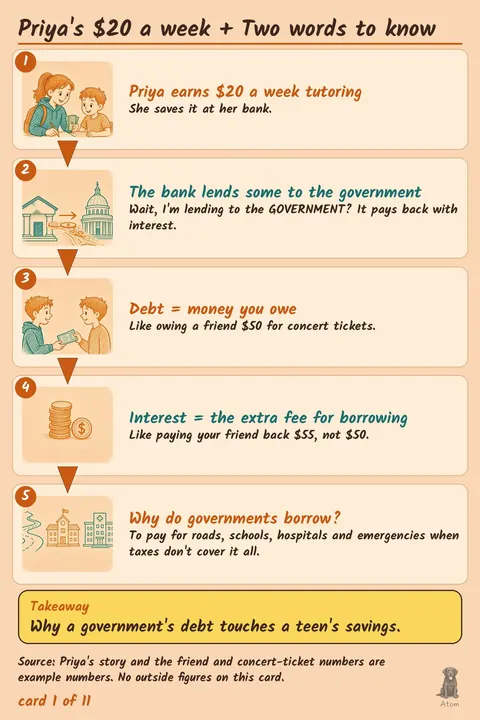
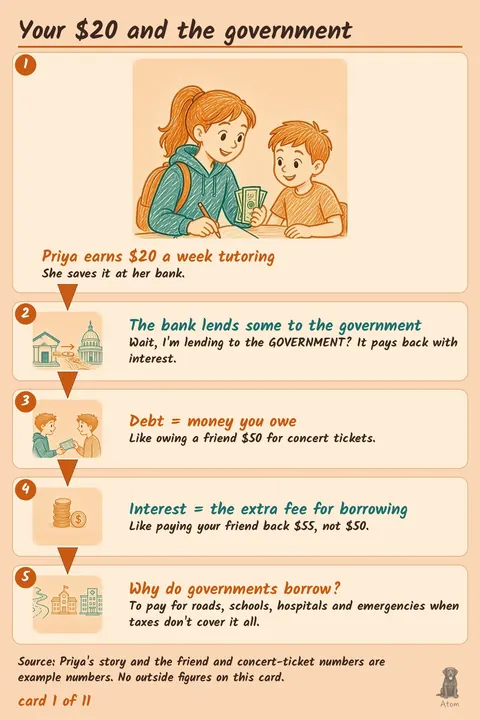
Pulse: Debt Loop v7 (takeaways in caption box), gist leads; counter + Scroll cue moved to footer; shelf progress counts drawn pages; add_book --takeaways

diff --git a/js/pulse.js b/js/pulse.js
@@ -308,7 +308,7 @@
   }
   /* pencil ticks: one slanted tick per page, filled for pages already reached */
   function readOf(b) { var total = b.pages.length + 1; return Math.min(total, Math.round(progress(b) * total)); }
-  function readText(b) { var n = readOf(b), t = b.pages.length + 1; return n ? "Read up to page " + n + " of " + t : "0 of " + t + " pages read"; } // ticks = furthest page reached, not the page you are on
+  function readText(b) { var n = readOf(b), t = b.pages.length, d = Math.min(t, Math.max(0, n - 1)); return d ? "Read up to page " + d + " of " + t : n ? "Read the summary · 0 of " + t + " pages" : "0 of " + t + " pages read"; } // counts drawn pages only, like the in-book counter // ticks = furthest page reached, not the page you are on
   function ticks(b, cls) {
     var total = b.pages.length + 1, reached = readOf(b), w = el("span", cls);
     w.setAttribute("aria-hidden", "true");
@@ -672,10 +672,12 @@
     }
     /* short phones: the card scrolls inside itself; a small sticky pill says "more below" until the bottom is reached */
     var more = el("span", "end-more"); more.setAttribute("aria-hidden", "true"); more.appendChild(el("span", "end-more-pill", "Scroll for more ↓")); d.appendChild(more);
-    var upd = function () { d.classList.toggle("g-more", d.scrollHeight - d.scrollTop - d.clientHeight > 8); };
+    var upd = function () { d.classList.toggle("g-more", d.scrollHeight - d.scrollTop - d.clientHeight > 8); syncMore(d); };
     d.addEventListener("scroll", upd, { passive: true }); requestAnimationFrame(upd); setTimeout(upd, 500); setTimeout(upd, 1200);
     return d;
   }
+  /* "Scroll for more" lives in the footer next to the counter, so it never covers a page's source line or takeaway */
+  function syncMore(d) { var m = $("rd-more"); if (m && d && d.isConnected) m.hidden = !d.classList.contains("g-more"); }
   function pageNode(b, i) {
     var P = pages(b);
     if (i >= P.length) return endNode(b);
@@ -694,18 +696,18 @@
       d.appendChild(sc);
       /* the page-turn button lives outside the scrolling text, so it is always on screen, however short the phone */
       var ft = el("div", "g-foot"), go = el("button", "g-go", "Turn the page →"); go.type = "button"; go.onclick = function () { turn(1); }; ft.appendChild(go); d.appendChild(ft);
-      var more = function () { d.classList.toggle("g-more", sc.scrollHeight - sc.scrollTop - sc.clientHeight > 3); };
+      var more = function () { d.classList.toggle("g-more", sc.scrollHeight - sc.scrollTop - sc.clientHeight > 3); syncMore(d); };
       sc.addEventListener("scroll", more, { passive: true }); requestAnimationFrame(more); setTimeout(more, 400);
     } else {
       var btn = el("button", "pg-zoom"); btn.type = "button"; btn.setAttribute("aria-label", "Zoom into page: " + p.title);
       var img = el("img"); img.src = p.file; img.alt = "Sketch page from " + b.title + ": " + p.title + ". " + tagline(b) + "."; img.width = p.w; img.height = p.h; img.decoding = "async"; if (Math.abs(i - idx) > 1) img.loading = "lazy";
       btn.appendChild(img); btn.onclick = function () { zoom(p, b); }; d.appendChild(btn);
       /* taller than the screen: the sketch fits the card's width and scrolls inside it; a small "Scroll" pill says so */
-      var more = function () { d.classList.toggle("g-more", btn.scrollHeight - btn.scrollTop - btn.clientHeight > 6); };
+      var more = function () { d.classList.toggle("g-more", btn.scrollHeight - btn.scrollTop - btn.clientHeight > 6); syncMore(d); };
       btn.addEventListener("scroll", more, { passive: true }); img.addEventListener("load", more); requestAnimationFrame(more); setTimeout(more, 500);
       var nx = P[i + 1]; if (nx) { var pre = new Image(); pre.src = nx.file; }
     }
-    d.appendChild(el("span", "pg-num", p.gist ? "Summary" : i + " of " + b.pages.length)); // drawn pages count on their own, so the number matches the art (gist = "Summary", end card has none)
+    var pn = el("span", "pg-num", p.gist ? "Summary" : i + " of " + b.pages.length); pn.setAttribute("aria-hidden", "true"); d.appendChild(pn); // kept in the page for scripts; shown in the footer (#rd-count) so it never covers the art // drawn pages count on their own, so the number matches the art (gist = "Summary", end card has none)
     return d;
   }
   function paint() {
@@ -714,6 +716,8 @@
     $("rd-progfill").style.width = Math.round((idx + 1) / P.length * 100) + "%"; $("rd-pagetitle").textContent = end ? "Finished — " + P.length + " pages" : P[idx].gist ? "The 60-second version" : P[idx].title;
     $("rd-prev").disabled = idx === 0; $("rd-next").disabled = end;
     $("rd-next").setAttribute("aria-label", idx === P.length - 1 ? "Finish the book" : "Next page");
+    $("rd-more").hidden = true;
+    $("rd-count").textContent = end ? "Finished" : P[idx].gist ? "Summary" : idx + " of " + (P.length - 1);
     var dots = $("rd-dots"); dots.innerHTML = "";
     P.forEach(function (q, i) { if (q.gist) return; var d = el("button", "dot" + (i === idx ? " on" : "")); d.type = "button"; d.setAttribute("aria-label", "Page " + i + " of " + (P.length - 1)); if (i === idx) d.setAttribute("aria-current", "page"); d.onclick = function () { go(i); }; dots.appendChild(d); }); // one dot per drawn page
     var bk = $("book"), base = parseFloat(bk.dataset.ar || "0.58"); bk.style.setProperty("--ar", (end || P[idx].gist) && base > 0.75 ? "0.75" : base.toFixed(4)); // wide cards: text pages (summary, end card) get a taller frame so the recap fits

diff --git a/pulse.html b/pulse.html
@@ -210,6 +210,7 @@
         <span class="rd-pagetitle sr-only" id="rd-pagetitle"></span>
         <span class="rd-pagerow" id="rd-pagerow" hidden><span class="rd-stamps rd-stamps-foot" id="rd-stamps2"></span></span>
         <div class="rd-take" id="rd-take" hidden><p id="rd-take-t"></p><button type="button" class="rd-btn rd-ico" id="rd-take-copy" aria-label="Copy takeaway + link" title="Copy takeaway + link"><svg viewBox="0 0 24 24" width="18" height="18" fill="none" stroke="currentColor" stroke-width="1.75" stroke-linecap="round" stroke-linejoin="round" aria-hidden="true"><rect x="8" y="8" width="12" height="12" rx="2"/><path d="M16 8V5a1 1 0 0 0-1-1H5a1 1 0 0 0-1 1v10a1 1 0 0 0 1 1h3"/></svg><span class="lbl">Copy takeaway + link</span></button></div>
+        <p class="rd-countrow"><span class="rd-count" id="rd-count" aria-live="polite"></span><span class="rd-more" id="rd-more" hidden aria-hidden="true">Scroll for more ↓</span></p>
         <div class="rd-dots" id="rd-dots"></div>
         <p class="rd-keys" aria-hidden="true"><kbd>←</kbd><kbd>→</kbd> turn · <kbd>Z</kbd> zoom · <kbd>B</kbd> bookmark · <kbd>A</kbd> ask · <kbd>Esc</kbd> shelf</p>
       </div>

diff --git a/css/pulse.css b/css/pulse.css
@@ -742,3 +742,11 @@ a.sp:focus-visible{outline:none}
 .totop[hidden]{display:none}
 body.reading .totop{display:none}
 @media (prefers-reduced-motion:reduce){.totop{transition:none;transform:none}.totop.on,.totop:hover,.totop:active{transform:none}}
+
+/* page counter lives under the book, never on the art */
+.pg-num{position:absolute!important;width:1px;height:1px;overflow:hidden;clip:rect(0 0 0 0);clip-path:inset(50%);white-space:nowrap;padding:0;box-shadow:none}
+.rd-countrow{margin:0 0 4px;display:flex;justify-content:center;align-items:center;gap:10px}
+.rd-more{font:600 .75rem var(--body);color:var(--ink);border:1.5px solid var(--ink-faded,rgba(0,0,0,.25));border-radius:999px;padding:1px 10px}
+.rd-more[hidden]{display:none}
+.end-more,.pg:not(.pg-gist):not(.pg-end)::after{display:none!important}
+.rd-count{font:600 .8rem var(--body);color:var(--ink-soft);letter-spacing:.02em}

diff --git a/scripts/add_book.py b/scripts/add_book.py
@@ -86,12 +86,16 @@ def cmd_book(a):
     titles = a.page_titles or [""] * len(a.pages)
     if len(titles) != len(a.pages):
         sys.exit("--page-titles must match --pages")
+    if a.takeaways and len(a.takeaways) != len(a.pages):
+        sys.exit("--takeaways must match --pages (use \"\" for a page without one); shown in the caption box under the page, never drawn on the card")
     lib = load()
     old = next((b for b in lib["books"] if b["id"] == a.slug), None)
     book = {"id": a.slug, "title": a.title, "topic": a.topic, "blurb": a.blurb,
             "gist": a.gist, **({"gist_lead": a.gist_lead} if a.gist_lead else {}), "added": (old or {}).get("added") or datetime.date.today().isoformat(),
             "added_at": (old or {}).get("added_at") or datetime.datetime.now().isoformat(timespec="minutes"),
             "pages": [page_entry(a.slug, i, s, t) for i, (s, t) in enumerate(zip(a.pages, titles), 1)]}
+    for pg, tk in zip(book["pages"], a.takeaways or []):
+        if tk.strip(): pg["takeaway"] = tk.strip()
     # recap: 1-3 plain lines that cover ALL pages; recap_pages records how many pages it was written for
     if a.recap:
         if not 1 <= len(a.recap) <= 4:
@@ -223,7 +227,7 @@ sp = ap.add_subparsers(dest="cmd", required=True)
 p = sp.add_parser("book"); p.set_defaults(fn=cmd_book)
 p.add_argument("--slug", required=True); p.add_argument("--title", required=True)
 p.add_argument("--topic", required=True); p.add_argument("--blurb", required=True)
-p.add_argument("--gist", nargs=3, required=True); p.add_argument("--recap", nargs="+", help="1-3 plain lines recapping the WHOLE book (shown on the end card); required whenever the page set changes"); p.add_argument("--gist-lead", nargs=3, help="optional bold lead phrase for each gist line; must be the start of that line"); p.add_argument("--pages", nargs="+", required=True)
+p.add_argument("--gist", nargs=3, required=True); p.add_argument("--takeaways", nargs="+", help="optional: one takeaway per page (pages[].takeaway), shown in the caption box under the page"); p.add_argument("--recap", nargs="+", help="1-3 plain lines recapping the WHOLE book (shown on the end card); required whenever the page set changes"); p.add_argument("--gist-lead", nargs=3, help="optional bold lead phrase for each gist line; must be the start of that line"); p.add_argument("--pages", nargs="+", required=True)
 p.add_argument("--page-titles", nargs="+")
 p = sp.add_parser("replace"); p.set_defaults(fn=cmd_replace)
 p.add_argument("--slug", required=True); p.add_argument("--page", type=int, required=True)
